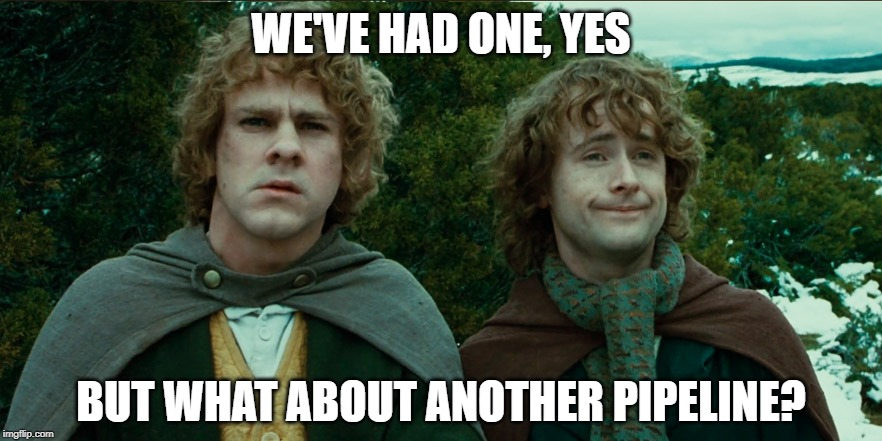
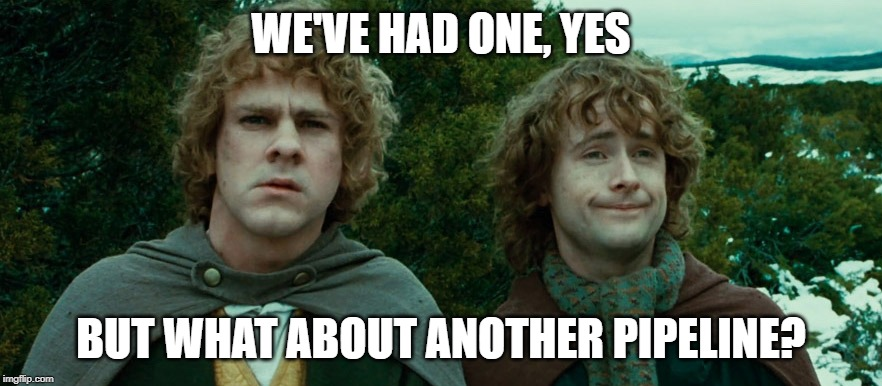
Updating readme

diff --git a/README.md b/README.md
@@ -3,11 +3,13 @@
 
 Pippin - a pipeline for Supernova cosmology analysis
 
-<img style="width: 100%;" src="meme.jpg">
 
 
 
 ## Table of Contents
+
+<img alright="right" style="width: 50%" src="meme.jpg">
+
 
 * [Using Pippin](#using-pippin)
 * [Installing Pippin](#installing-it-fresh)
